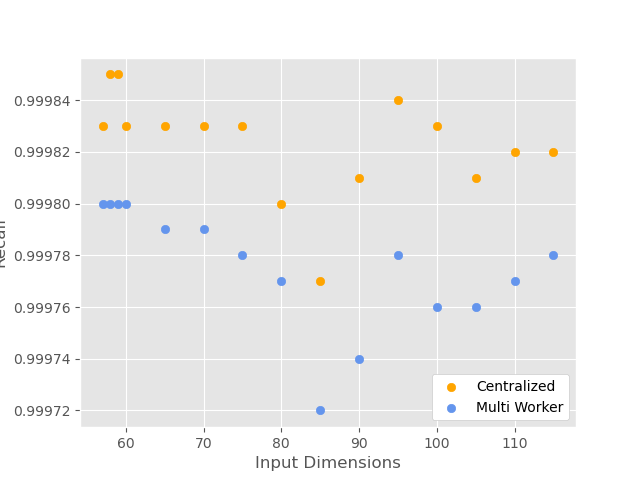
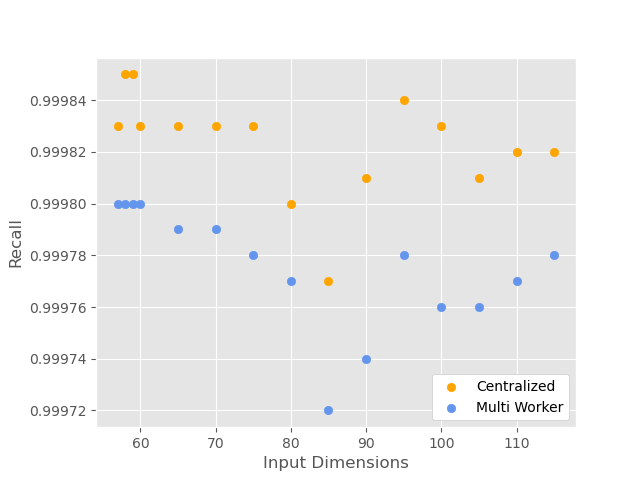
quick change to recall figure making, now the figure will shift the plot 0.15 from the left

diff --git a/anomaly-detection/MatpltlibGen/figMaker.py b/anomaly-detection/MatpltlibGen/figMaker.py
@@ -19,6 +19,7 @@ centRecall = [0.73956, 0.73960, 0.73959, 0.73959, 0.73952, 0.73954,
               0.99982, 0.99982, 0.99983, 0.99985, 0.99985,
               0.99983, 0.99983, 0.99983, 0.99983, 0.99980, 0.99977, 0.99981,
               0.99984, 0.99983, 0.99981, 0.99982, 0.99982]
+
 centPrecision = [0.86582, 0.90645, 0.95519, 0.96497, 0.98188, 0.98159,
                  0.97990, 0.97295, 0.97079, 0.97092, 0.97236, 0.97678, 0.97539,
                  0.97457, 0.97455, 0.97469, 0.97458, 0.97411,
@@ -40,6 +41,7 @@ multiRecall = [0.73949, 0.73957, 0.73956, 0.73954, 0.73948, 0.73949,
                0.99979, 0.99980, 0.99980, 0.99980, 0.99980,
                0.99980, 0.99979, 0.99979, 0.99978, 0.99977, 0.99972,
                0.99974, 0.99978, 0.99976, 0.99976, 0.99977, 0.99978]
+
 multiPrecision = [0.94158, 0.92723, 0.97360, 0.97769, 0.98276, 0.98290,
                   0.98294, 0.97670, 0.97482, 0.97483, 0.97453, 0.97940, 0.97853,
                   0.97897, 0.97877, 0.97915, 0.97868, 0.97888,
@@ -136,15 +138,15 @@ def accuracy_plt_multi(plt):
     plt.style.use("ggplot")
     title = "Accuracy"
     acc = plt
-    acc.title("")#(f"{title}")# for different number of features")
+    acc.title("")  # (f"{title}")# for different number of features")
     acc.xlabel("Input Dimensions")
     acc.ylabel(f"{title}")
     half = len(xList) >> 1
     xlista = xList[half:]
     ylista = centAcc[half:]
     ylistmulti = multiAcc[half:]
-    #acc.plot(xlista, ylista, label="Centralized")
-    #acc.plot(xlista, ylistmulti, label="Multi Worker")
+    # acc.plot(xlista, ylista, label="Centralized")
+    # acc.plot(xlista, ylistmulti, label="Multi Worker")
     acc.scatter(xlista, ylista, c="orange", label="Centralized")
     acc.scatter(xlista, ylistmulti, c="cornflowerblue", label="Multi Worker")
     acc.legend(loc="lower right", framealpha=1.0, facecolor='white')
@@ -157,14 +159,14 @@ def precision_plt_multi(plt):
     title = "Precision"
     precision = plt
     precision.style.use("ggplot")
-    precision.title("")#(f"{title}")# for different number of features")
+    precision.title("")  # (f"{title}")# for different number of features")
     precision.xlabel("Input Dimension")
     precision.ylabel(f"{title}")
     xlistp = xList
     ylistp = centPrecision
     ylistmulti = multiPrecision
-    #precision.plot(xlistp,  ylistp, label="Centralized")
-    #precision.plot(xlistp, ylistmulti, label="Multi Worker")
+    # precision.plot(xlistp,  ylistp, label="Centralized")
+    # precision.plot(xlistp, ylistmulti, label="Multi Worker")
     precision.scatter(xlistp, ylistp, c="orange", label="Centralized")
     precision.scatter(xlistp, ylistmulti, c="cornflowerblue", label="Multi Worker")
     precision.legend(loc="lower right", framealpha=1.0, facecolor='white')
@@ -177,15 +179,17 @@ def recall_plt_multi(plt):
     title = "Recall"
     recall = plt
     recall.style.use("ggplot")
-    recall.title("")#(f"{title}")# for different number of features")
+    recall.title("")  # (f"{title}")# for different number of features")
     recall.xlabel("Input Dimensions")
     recall.ylabel(f"{title}")
     half = len(xList) >> 1
     xlistr = xList[half:]
     ylistr = centRecall[half:]
     ylistmulti = multiRecall[half:]
-    #recall.plot(xlistr, ylistr, label="Centralized")
-    #recall.plot(xlistr, ylistmulti, label="Multi Worker")
+    # recall.plot(xlistr, ylistr, label="Centralized")
+    # recall.plot(xlistr, ylistmulti, label="Multi Worker")
+    # this line will shift the plot away from the left side by 0.15
+    recall.subplots_adjust(left=0.15)
     recall.scatter(xlistr, ylistr, c="orange", label="Centralized")
     recall.scatter(xlistr, ylistmulti, c="cornflowerblue", label="Multi Worker")
     recall.legend(loc="lower right", framealpha=1.0, facecolor='white')
@@ -198,15 +202,15 @@ def f1_plt_multi(plt):
     title = "F-Measure"
     f1 = plt
     f1.style.use("ggplot")
-    f1.title("")#f"{title}")# per number of features")
+    f1.title("")  # f"{title}")# per number of features")
     f1.xlabel("Input Dimnesions")
     f1.ylabel(f"{title}")
     half = len(xList) >> 1
     xlistf = xList[half:]
     ylistf = centF1[half:]
     ylistmulti = multiF1[half:]
-    #f1.plot(xlistf, ylistf, label="Centralized")
-    #f1.plot(xlistf, ylistmulti, label="Multi Worker")
+    # f1.plot(xlistf, ylistf, label="Centralized")
+    # f1.plot(xlistf, ylistmulti, label="Multi Worker")
     f1.scatter(xlistf, ylistf, c="orange", label="Centralized")
     f1.scatter(xlistf, ylistmulti, c="cornflowerblue", label="Multi Worker")
     f1.legend(loc="lower right", framealpha=1.0, facecolor='white')
@@ -228,6 +232,7 @@ def f1_plt_multi(plt):
     acc.plot(xlista, ylista)
     acc.savefig(f"mutli_worker_acc_e50_lr001_bs128.png")
     print("Multi accuracy")'''
+
 
 # %%
 def pandas_dataframe_print(plt):
@@ -254,11 +259,11 @@ def main(argv):
     plt.style.use("ggplot")
 
     matplotlib.use("pdf")
-    #accuracy_plt_multi(plt)
-    #f1_plt_multi(plt)
+    # accuracy_plt_multi(plt)
+    # f1_plt_multi(plt)
     recall_plt_multi(plt)
-    #precision_plt_multi(plt)
-    #pandas_dataframe_print(plt)
+    # precision_plt_multi(plt)
+    # pandas_dataframe_print(plt)
 
     # f1_plt(plt)
     # precision_plt(plt)
